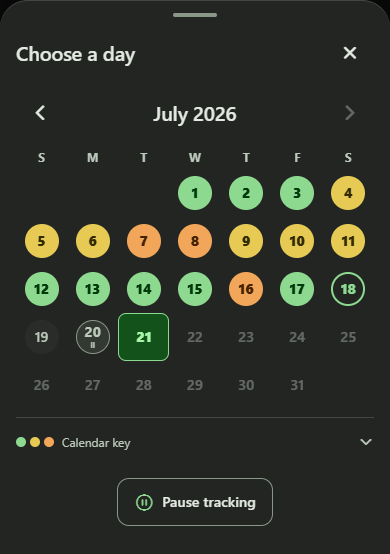
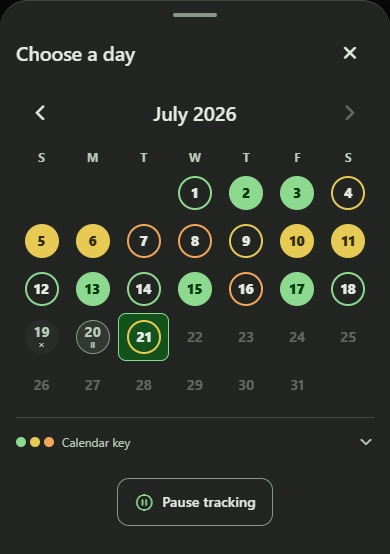
Refresh calendar color and tracking shape evidence

diff --git a/.github/pr-screenshots/calendar-key/README.md b/.github/pr-screenshots/calendar-key/README.md
@@ -1,47 +1,66 @@
 # Calendar key evidence
 
-These are genuine browser captures of the production Expo web export using deterministic synthetic
-food-day fixtures. Application and test source: `3f2cdb53bf6d13785e126b1ee7ed5de07e222da9`,
+These are actual browser captures of the production Expo web export using deterministic synthetic
+food-day fixtures. Application and test source: `90a81ddcb4d86b83a6ebbfc073ae211d26c38a94`,
 based on master `5a0cc095766e854e6fe52425bb0f0568f77254a4`. The following evidence-only commit
 copies the captures without changing application code. Image and source hashes are in [manifest.json](manifest.json).
-These are not design mocks or native-device captures.
+Native-device execution was not performed.
 
 | Phone, dark, collapsed | Phone, dark, expanded |
 | --- | --- |
-| ![Collapsed on-demand calendar key](phone-dark-collapsed.png) | ![Short labels with left, center and right content justification](phone-dark-expanded.png) |
+| ![Collapsed on-demand calendar key](phone-dark-collapsed.png) | ![Comparison-colored outlines and neutral tracking-shape key](phone-dark-expanded.png) |
 
 | Phone, light, collapsed | Phone, light, expanded |
 | --- | --- |
-| ![Light calendar key starts collapsed](phone-light-collapsed.png) | ![Light expanded key and green completion fallback](phone-light-expanded.png) |
+| ![Light calendar key starts collapsed](phone-light-collapsed.png) | ![Short color labels and distinct incomplete, not-started and paused shapes](phone-light-expanded.png) |
 
 | Small phone, 320px | Desktop, 1440px viewport |
 | --- | --- |
 | ![Key fits the compact phone width](compact-light-expanded.png) | ![Calendar stays in its bounded desktop reading column](desktop-dark-expanded.png) |
 
-The phone viewport is 390x844 and the compact viewport is 320x720. Calendar-modal screenshots crop
-to the modal bounds. Day 17 is complete without comparison data and uses green. Day 20 is paused;
-the date and glyph fit within its badge. At 200% text the badge grows to contain both:
+The phone viewport is 390x844, compact viewport 320x720, and desktop viewport 1440x1000.
+Calendar-modal screenshots crop to the modal bounds. Colors describe calorie balance independently
+of completion: days 1, 12 and 14 have green outlines, days 4 and 9 yellow outlines, and days 7, 8
+and 16 orange outlines. Completed days use the same palette as filled circles. Day 17 demonstrates
+the green fallback when a completed day lacks comparison data. Today (21) is open with a yellow
+outline based on current intake. Day 19 is not started, with a gray borderless circle and an x;
+day 20 is paused. The bottom key uses neutral tracking shapes, while the three color-label groups
+remain left, center and right justified.
 
-![Pause badge at 200 percent text](pause-200-percent.png)
+At 200% text both badges grow to contain their date and glyph:
+
+| Not started | Paused |
+| --- | --- |
+| ![Not-started badge with x at 200 percent text](not-started-200-percent.png) | ![Pause badge at 200 percent text](pause-200-percent.png) |
 
 ## Reproduce and verify
 
 Run `npm.cmd run test:web:e2e -- e2e/expo-web/completed-calendar.spec.ts`. The spec writes collapsed
 and expanded captures for light/dark desktop, tablet, phone and compact-phone projects; its enlarged
-text test also writes the pause-badge crop. Final result: 10 passed, 6 intentional project skips.
-Assertions cover actual marker-and-label content alignment, green fallback, glyph containment,
-key reset on reopening, optional explanations, completed calorie boundaries, selection, offline
-history recovery and accessibility of both collapsed and expanded keys.
+text test also writes both glyph-badge crops. Result: **10 passed, 6 intentional project skips**.
+Assertions cover comparison-color parity for completed and unfinished days, loss/gain/maintenance
+boundaries, neutral legend shapes, actual marker-and-label alignment, green fallback, glyph
+containment, key reset on reopening, optional explanations, selection, current-intake edits,
+offline history recovery and accessibility of both collapsed and expanded keys.
 
-Mobile typecheck and production web build passed. The full mobile suite passed 234 suites / 1,288
-tests before the final explicit browser `aria-expanded` addition; the final affected calendar suite
-then passed all 10 tests, and typecheck passed again.
+Validation of the iteration:
 
-The broader checks are not green. `npm.cmd run test:ux` returned 191 passed, 5 failed, 79 skipped and
-54 not run: two goal-editor checks still expect the old dialog and lack a pace-options fixture;
-three offline/stale-data checks have label or snapshot mismatches. The calendar overlay and
-expanded-key accessibility checks passed. The planned-pause browser run returned 54 passed,
-1 failed and 9 skipped; its tablet queued-pause failure passed on isolated rerun, while the
-Android-phone overdue-pause case failed intermittently across runs. These routes and pause behavior
-are outside this calendar key change. No UX baseline, threshold or unrelated application behavior
-was changed. Native-device execution was not performed.
+- Full mobile suite: **234 suites / 1,301 tests passed**.
+- Full backend suite: **793 passed, 3 database-dependent tests skipped**.
+- Backend, API-client and mobile typechecks passed; API generation and production web build passed.
+- `git diff --check` passed.
+
+Backend tests exercise retained local-day observations for unfinished days without freezing them
+or rebuilding history from current settings, and preservation of first-completion snapshots after
+reopening. Invalid, unavailable, future, wrong-date and conflicting-timezone observations remain
+unavailable. Calendar tests cover loss, gain and maintenance bands and queued completion/reopening.
+
+The broader `npm.cmd run test:ux` gate still returns **191 passed, 5 failed, 79 skipped and
+54 not run**. Two goal-editor checks expect the old dialog and lack a pace-options fixture;
+offline Today and terminal-error Today have existing snapshot mismatches; stale Food Log expects
+an older degraded-state label. Calendar overlay and expanded-key accessibility checks passed.
+No UX baseline or threshold was changed.
+
+Earlier planned-pause browser validation (before this iteration) returned 54 passed, 1 failed and
+9 skipped. Its tablet queued-pause failure passed on isolated rerun; the phone overdue-pause case
+failed intermittently across runs. That broader run was not repeated for this iteration.
